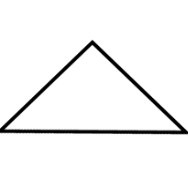
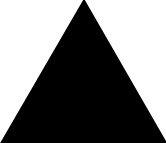
change style

diff --git a/src/app/random-figure/random-figure.ts b/src/app/random-figure/random-figure.ts
@@ -1,5 +1,11 @@
 import { CommonModule } from '@angular/common';
-import { Component, OnInit, OnDestroy } from '@angular/core';
+import {
+  Component,
+  OnInit,
+  OnDestroy,
+  Output,
+  EventEmitter,
+} from '@angular/core';
 
 interface ImageItem {
   src: string;
@@ -13,6 +19,7 @@ interface ImageItem {
   styleUrl: './random-figure.css',
 })
 export class RandomFigure implements OnInit, OnDestroy {
+  @Output() figureChanged = new EventEmitter<string>();
   images: ImageItem[] = [
     { src: 'assets/circle1.png', class: 'circle figure-size' },
     { src: 'assets/circle2.png', class: 'circle figure-size' },
@@ -22,10 +29,10 @@ export class RandomFigure implements OnInit, OnDestroy {
     { src: 'assets/square2.png', class: 'square figure-size' },
     { src: 'assets/square3.png', class: 'square figure-size' },
     { src: 'assets/square4.png', class: 'square figure-size' },
-    { src: 'assets/figure1.png', class: 'figure figure-size' },
-    { src: 'assets/figure2.png', class: 'figure figure-size' },
-    { src: 'assets/figure3.png', class: 'figure figure-size' },
-    { src: 'assets/figure4.png', class: 'figure figure-size' },
+    { src: 'assets/figure1.png', class: 'other figure-size' },
+    { src: 'assets/figure2.png', class: 'other figure-size' },
+    { src: 'assets/figure3.png', class: 'other figure-size' },
+    { src: 'assets/figure4.png', class: 'other figure-size' },
   ];
 
   currentImage: ImageItem | null = null;
@@ -46,5 +53,8 @@ export class RandomFigure implements OnInit, OnDestroy {
   showRandomImage() {
     const randomIndex = Math.floor(Math.random() * this.images.length);
     this.currentImage = this.images[randomIndex];
+    if (this.currentImage) {
+      this.figureChanged.emit(this.currentImage.class);
+    }
   }
 }

diff --git a/src/app/board/board.html b/src/app/board/board.html
@@ -1,13 +1,28 @@
 <div class="container">
-  <app-random-figure></app-random-figure>
-  <app-counter></app-counter>
+  <app-random-figure
+    (figureChanged)="handleFigureChange($event)"
+  ></app-random-figure>
+  <app-counter [counter]="counter"></app-counter>
   <div class="block-btn">
-    <app-button buttonClass="circle" iconPath="assets/circle.png"></app-button>
-    <app-button buttonClass="square" iconPath="assets/square.png"></app-button>
+    <app-button
+      buttonClass="circle"
+      iconPath="assets/circle.png"
+      (click)="handleButtonClick('circle')"
+    ></app-button>
+    <app-button
+      buttonClass="square"
+      iconPath="assets/square.png"
+      (click)="handleButtonClick('square')"
+    ></app-button>
     <app-button
       buttonClass="triangle"
       iconPath="assets/triangle.png"
+      (click)="handleButtonClick('triangle')"
     ></app-button>
-    <app-button buttonClass="other" label="Прочие"> </app-button>
   </div>
+  <app-button
+    buttonClass="other"
+    label="Прочие фигуры"
+    (click)="handleButtonClick('other')"
+  ></app-button>
 </div>

diff --git a/src/app/board/board.ts b/src/app/board/board.ts
@@ -9,4 +9,19 @@ import { Counter } from '../counter/counter';
   templateUrl: './board.html',
   styleUrl: './board.css',
 })
-export class Board {}
+export class Board {
+  counter: number = 0;
+  currentFigureClass: string = '';
+
+  handleFigureChange(className: string) {
+    this.currentFigureClass = className;
+  }
+
+  handleButtonClick(buttonClass: string) {
+    if (this.currentFigureClass.includes(buttonClass)) {
+      this.counter++;
+    } else {
+      this.counter--;
+    }
+  }
+}

diff --git a/src/app/board/board.css b/src/app/board/board.css
@@ -7,12 +7,12 @@
   justify-content: space-around;
   background-color: rgb(243 212 245);
   width: 60rem;
-  height: 90vh;
+  height: 86vh;
   border-radius: 1rem;
-  padding: 10px;
+  padding: 2rem 0;
 }
 .block-btn {
   display: flex;
-  flex-direction: column;
-  gap: 1rem;
+  flex-direction: row;
+  gap: 2rem;
 }

diff --git a/src/app/counter/counter.ts b/src/app/counter/counter.ts
@@ -7,5 +7,5 @@ import { Component, Input } from '@angular/core';
   styleUrl: './counter.css',
 })
 export class Counter {
-  @Input() count!: number;
+  @Input() counter!: number;
 }

diff --git a/src/app/button/button.html b/src/app/button/button.html
@@ -1,4 +1,4 @@
-<button [ngClass]="['btn', buttonClass]" (click)="handleClick()">
+<button [ngClass]="['btn', buttonClass]">
   <img
     *ngIf="iconPath"
     [src]="iconPath"

diff --git a/src/app/counter/counter.css b/src/app/counter/counter.css
@@ -1,5 +1,5 @@
 .counter {
-  height: 6rem;
+  height: 4rem;
   width: 10rem;
   display: flex;
   justify-content: center;

diff --git a/src/app/button/button.css b/src/app/button/button.css
@@ -15,4 +15,5 @@
 }
 .other {
   background-color: rgb(93, 82, 250);
+  font-size: 1rem;
 }

diff --git a/src/app/counter/counter.html b/src/app/counter/counter.html
@@ -1,3 +1,3 @@
 <div class="counter">
-  {{ count }}
+  {{ counter }}
 </div>
